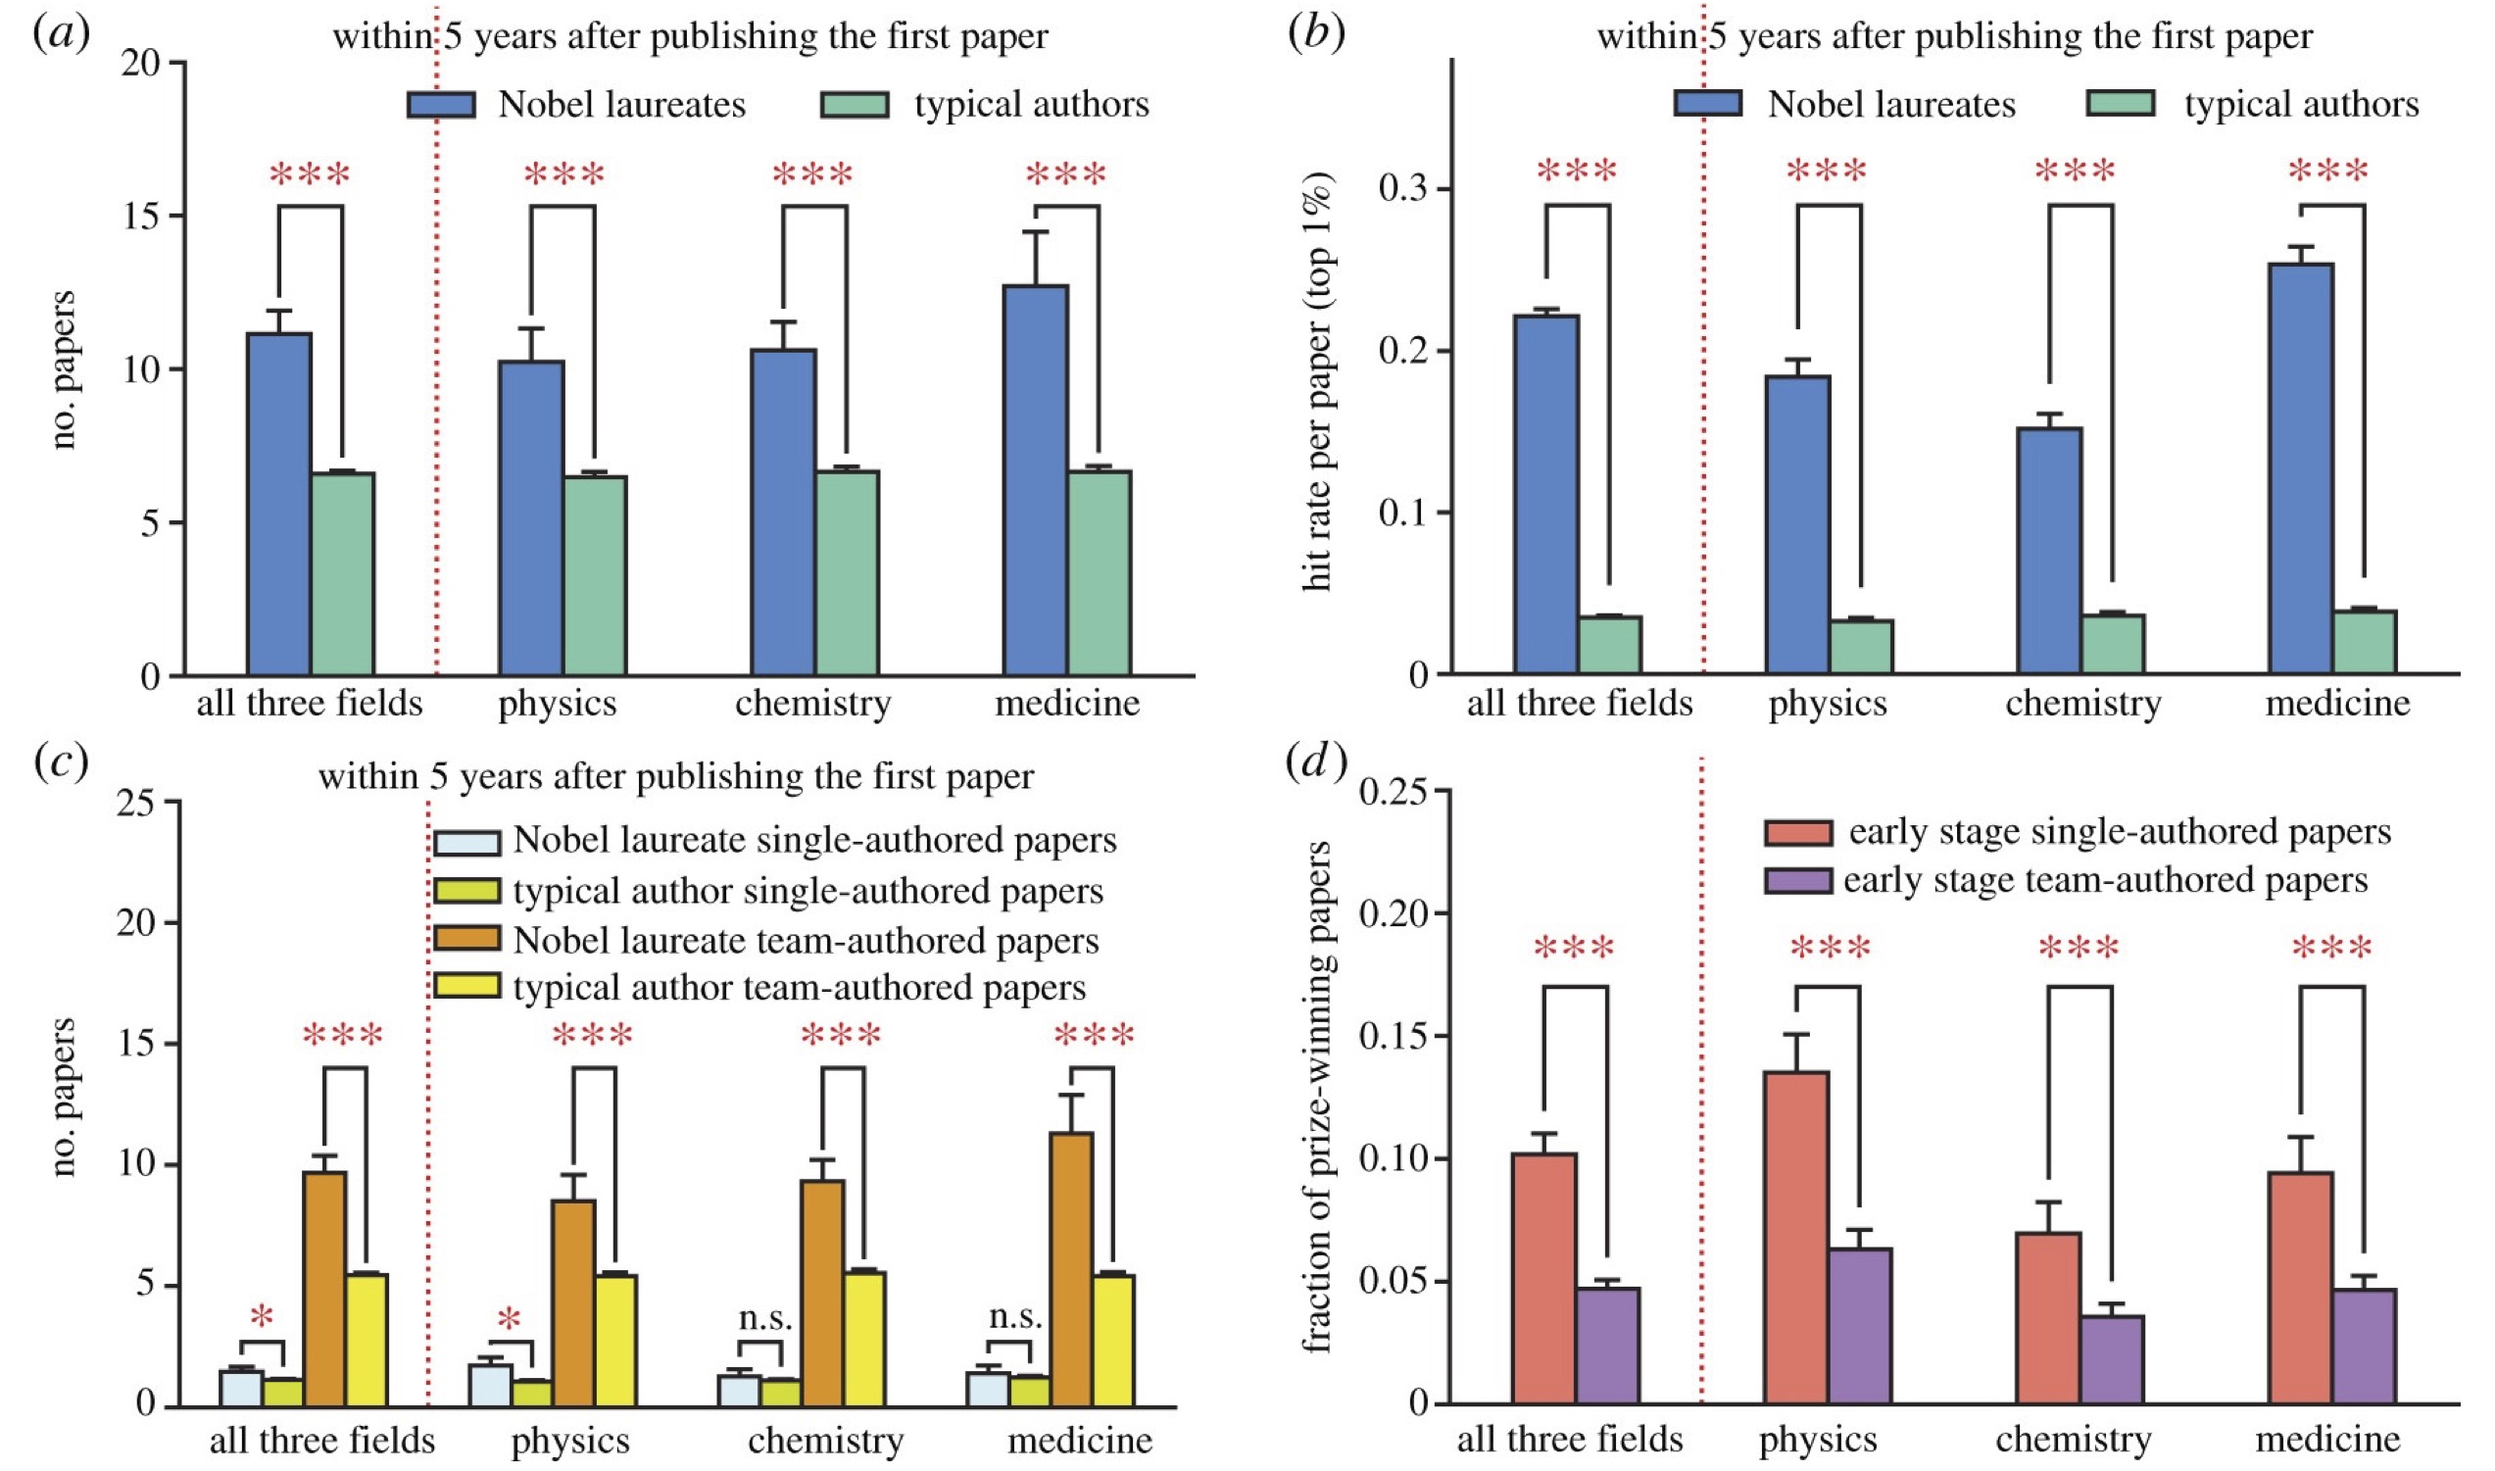
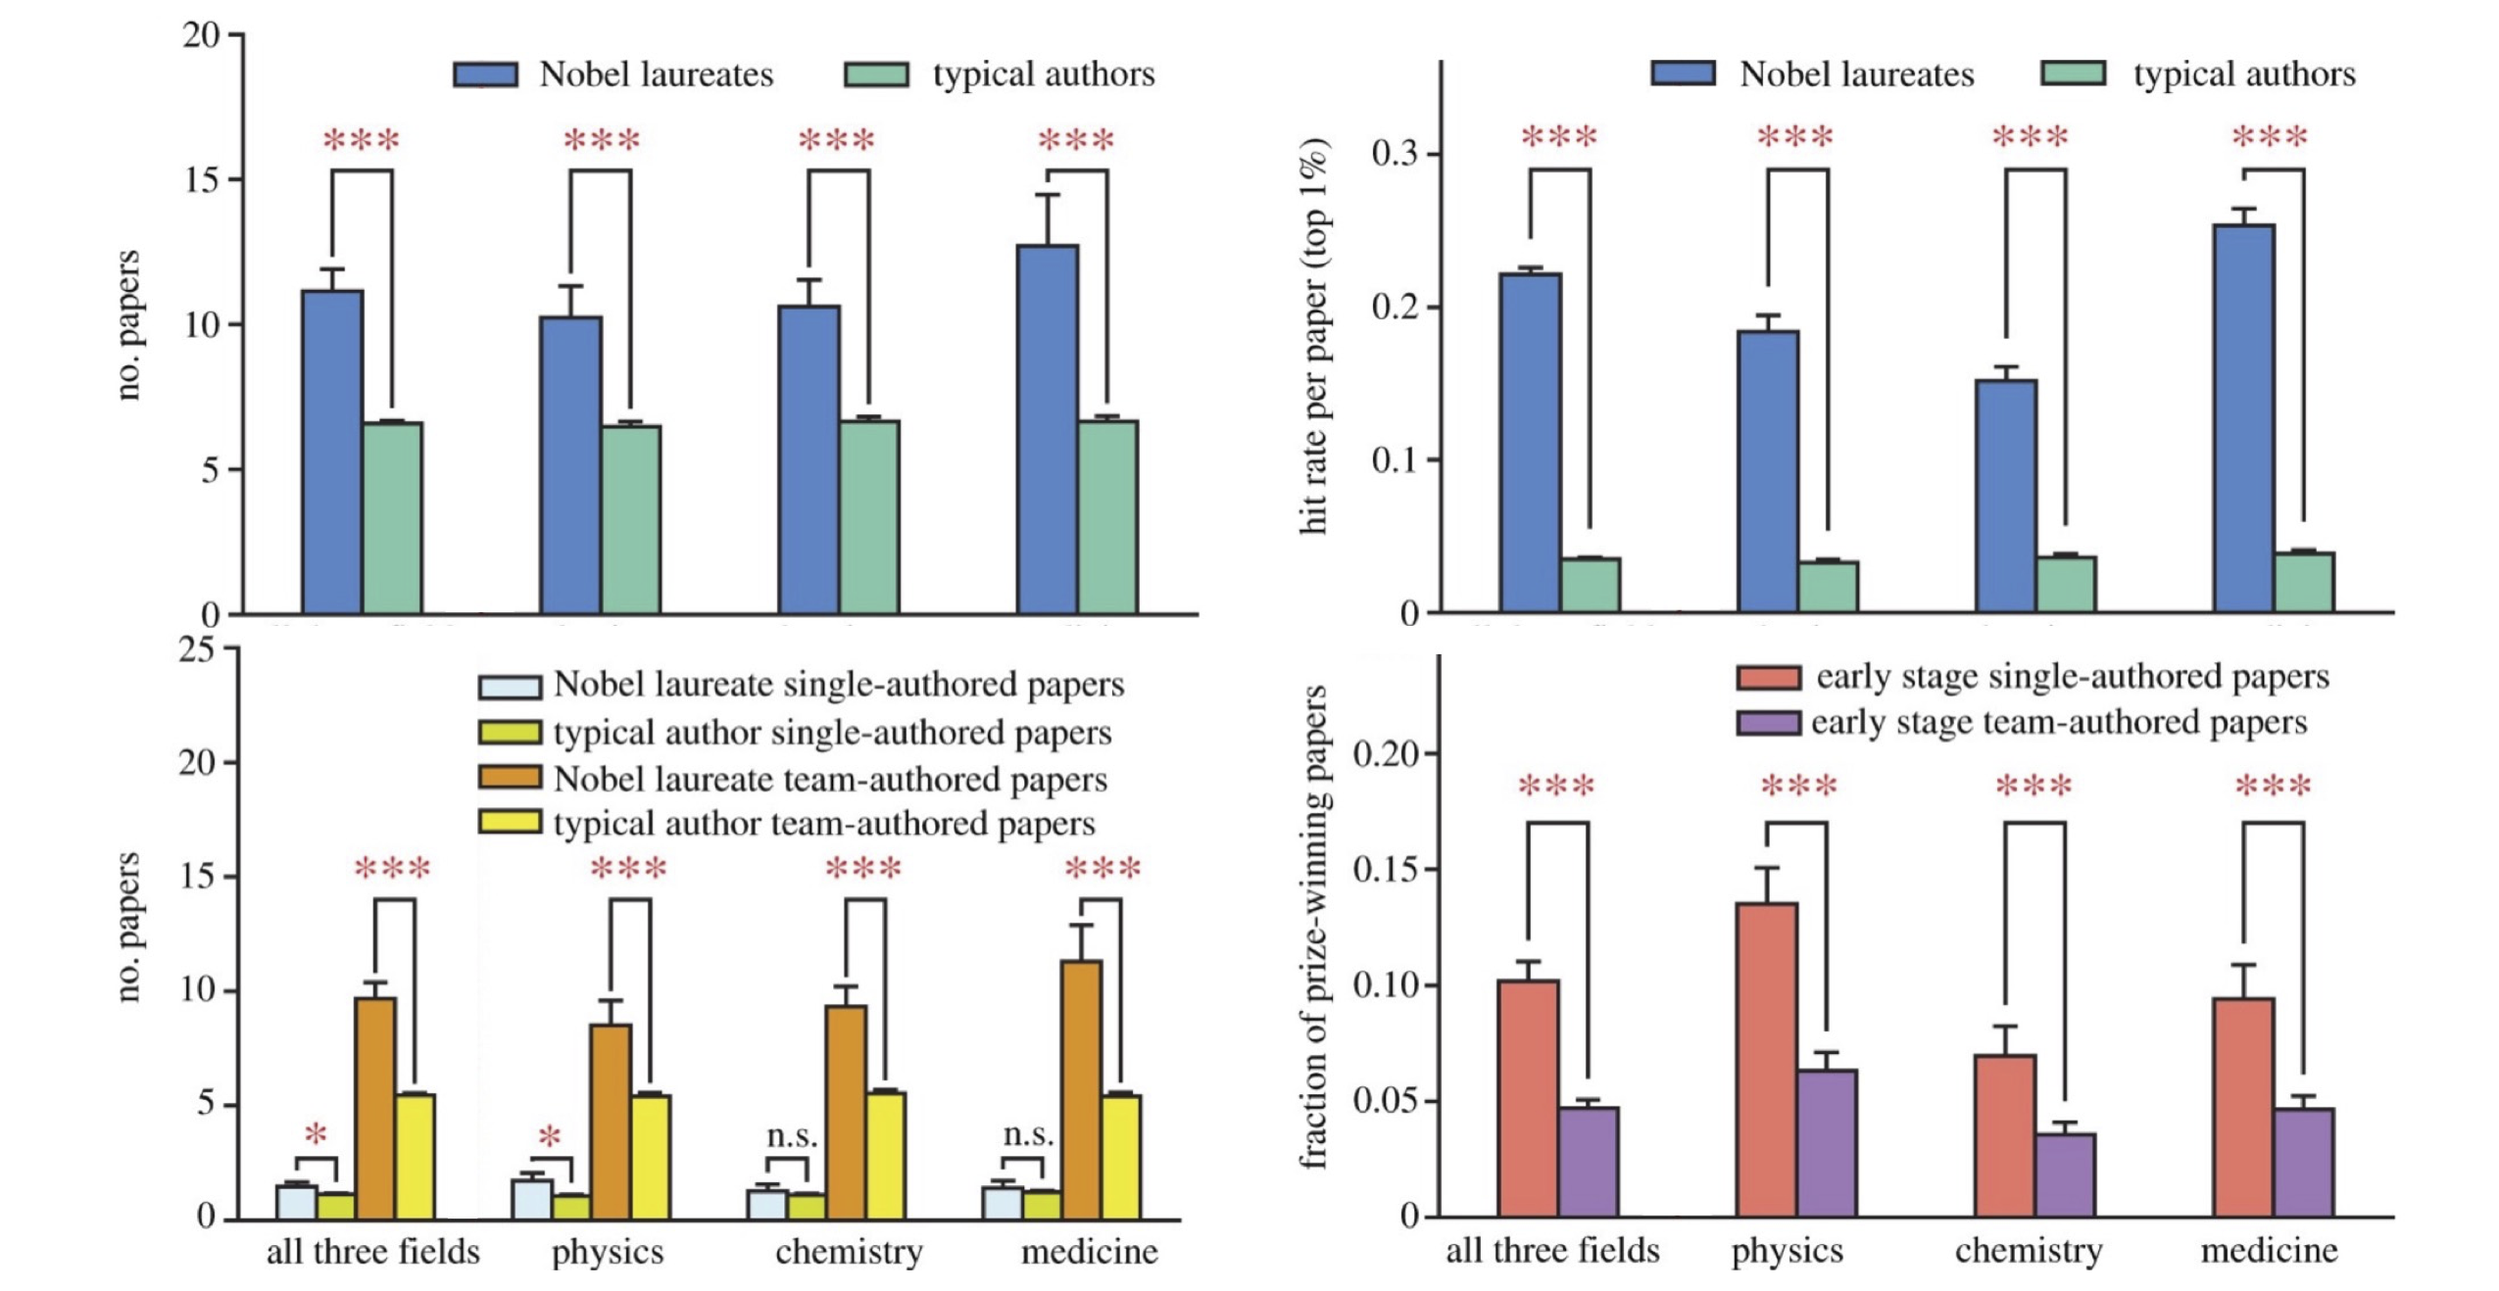
Add files via upload

diff --git a/publication.html b/publication.html
@@ -36,7 +36,7 @@ Jichao Li, <b>Yian Yin</b>, Santo Fortunato and Dashun Wang<br />
 </ul>
 </div></div>
 <table class="imgtable"><tr><td>
-<img src="li2020.png" alt="li2020" width="480px" height="283px" />&nbsp;</td>
+<img src="li2020.png" alt="li2020" width="480px" height="248px" />&nbsp;</td>
 <td align="left"><p><font size=-1.5> Throughout history, a relatively small number of individuals have made a profound and lasting impact on science and society. Despite long-standing, multi-disciplinary interests in understanding careers of elite scientists, there have been limited attempts for a quantitative, career-level analysis. Here, we leverage a comprehensive dataset we assembled, allowing us to trace the entire career histories of nearly all Nobel laureates in physics, chemistry, and physiology or medicine over the past century. We find that, although Nobel laureates were energetic producers from the outset, producing works that garner unusually high impact, their careers before winning the prize follow relatively similar patterns to those of ordinary scientists, being characterized by hot streaks and increasing reliance on collaborations. We also uncovered notable variations along their careers, often associated with the Nobel Prize, including shifting coauthorship structure in the prize-winning work, and a significant but temporary dip in the impact of work they produce after winning the Nobel Prize. Together, these results document quantitative patterns governing the careers of scientific elites, offering an empirical basis for a deeper understanding of the hallmarks of exceptional careers in science.</p>
 <p></font><br /></p>
 </td></tr></table>
@@ -103,7 +103,7 @@ Jichao Li, <b>Yian Yin</b>, Santo Fortunato and Dashun Wang<br />
 </td></tr></table>
 <div id="footer">
 <div id="footer-text">
-Page generated 2020-04-28 14:10:45 CDT, by <a href="https://github.com/wsshin/jemdoc_mathjax" target="blank">jemdoc+MathJax</a>.
+Page generated 2020-04-28 14:29:28 CDT, by <a href="https://github.com/wsshin/jemdoc_mathjax" target="blank">jemdoc+MathJax</a>.
 (<a href="publication.jemdoc">source</a>)
 </div>
 </div>
